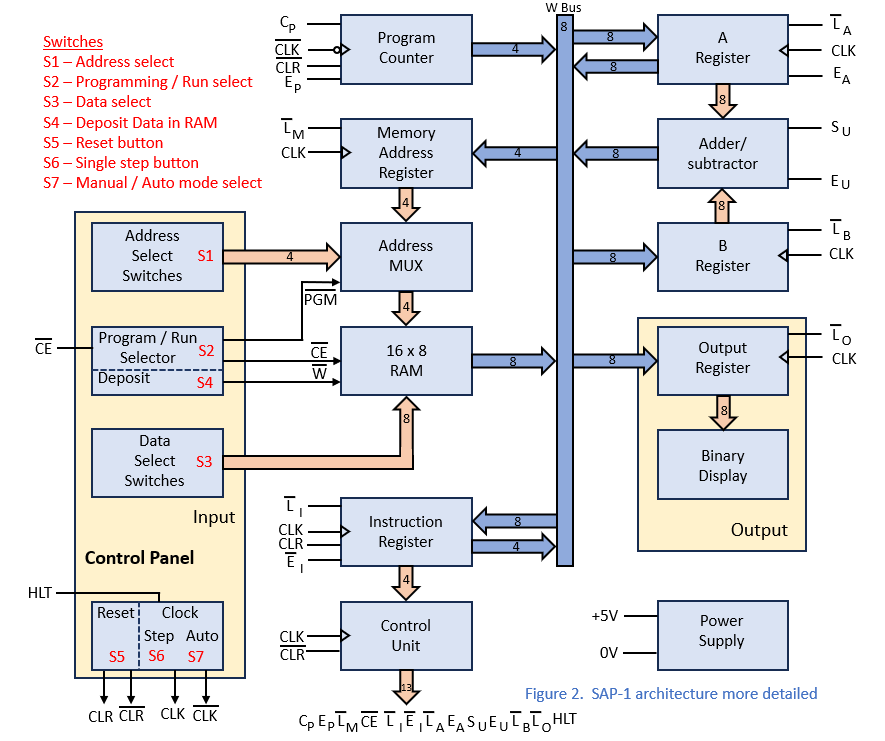
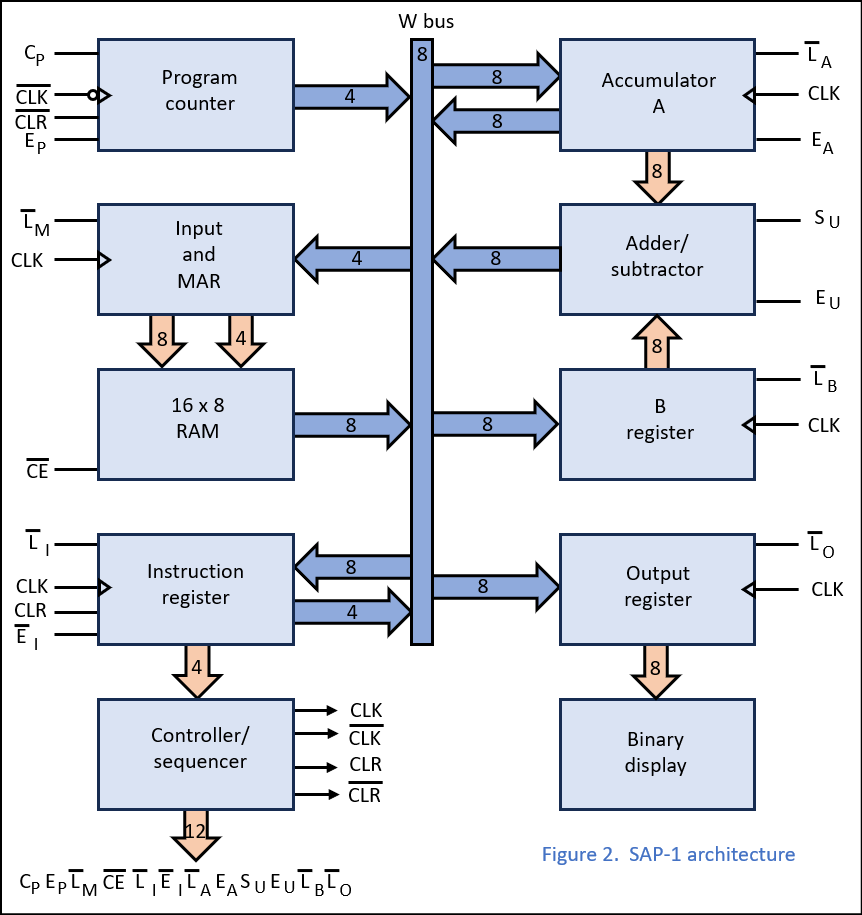
modified:   Pictures/Figure2.png

diff --git a/README.md b/README.md
@@ -3,7 +3,7 @@ The ISAP-1 Computer is the improved version of the SAP-1 Computer made by me.
 
 ISAP Computer stands for Improved Simple as Possible Computer
 
-This is the first stage of the design of the ISAP-1 Computer and consists of the process of optimizing the functionality of the SAP-1 computer at the Block Diagram level.
+This is the second stage of the design of the ISAP-1 computer and consists of the process of optimizing the functionality of the SAP-1 computer at the block diagram level.
 
 By: Lincă Marius Gheorghe,
 
@@ -12,12 +12,12 @@ https://github.com/LincaMarius
 ## About the project, brief description
 The goal of this project is to create a more efficient version of the SAP (Simple As Possible) Computer, but with minimal changes.
 
-## ISAP-1 version 1.0
+## Original Block Diagram
 The original Block Diagram of the SAP-1 Computer can be found in the book "Digital Computer Electronics" by Albert Paul Malvino and Jerald A. Brown, on page 141 and is labeled Figure 10-1.
 
 In the following figure, I present a reproduction of the original Block Diagram of the SAP-1 Computer.
 
-![ Figure 1 ](/Pictures/Figure1.png)
+![ Figure 2 ](/Pictures/Figure2.png)
 
 ### More detailed Block Diagram
 I studied the original schematic of the SAP-1 Computer and recreated the Block Diagram to represent the actual functional blocks as closely as possible and I present it in the following figure.
